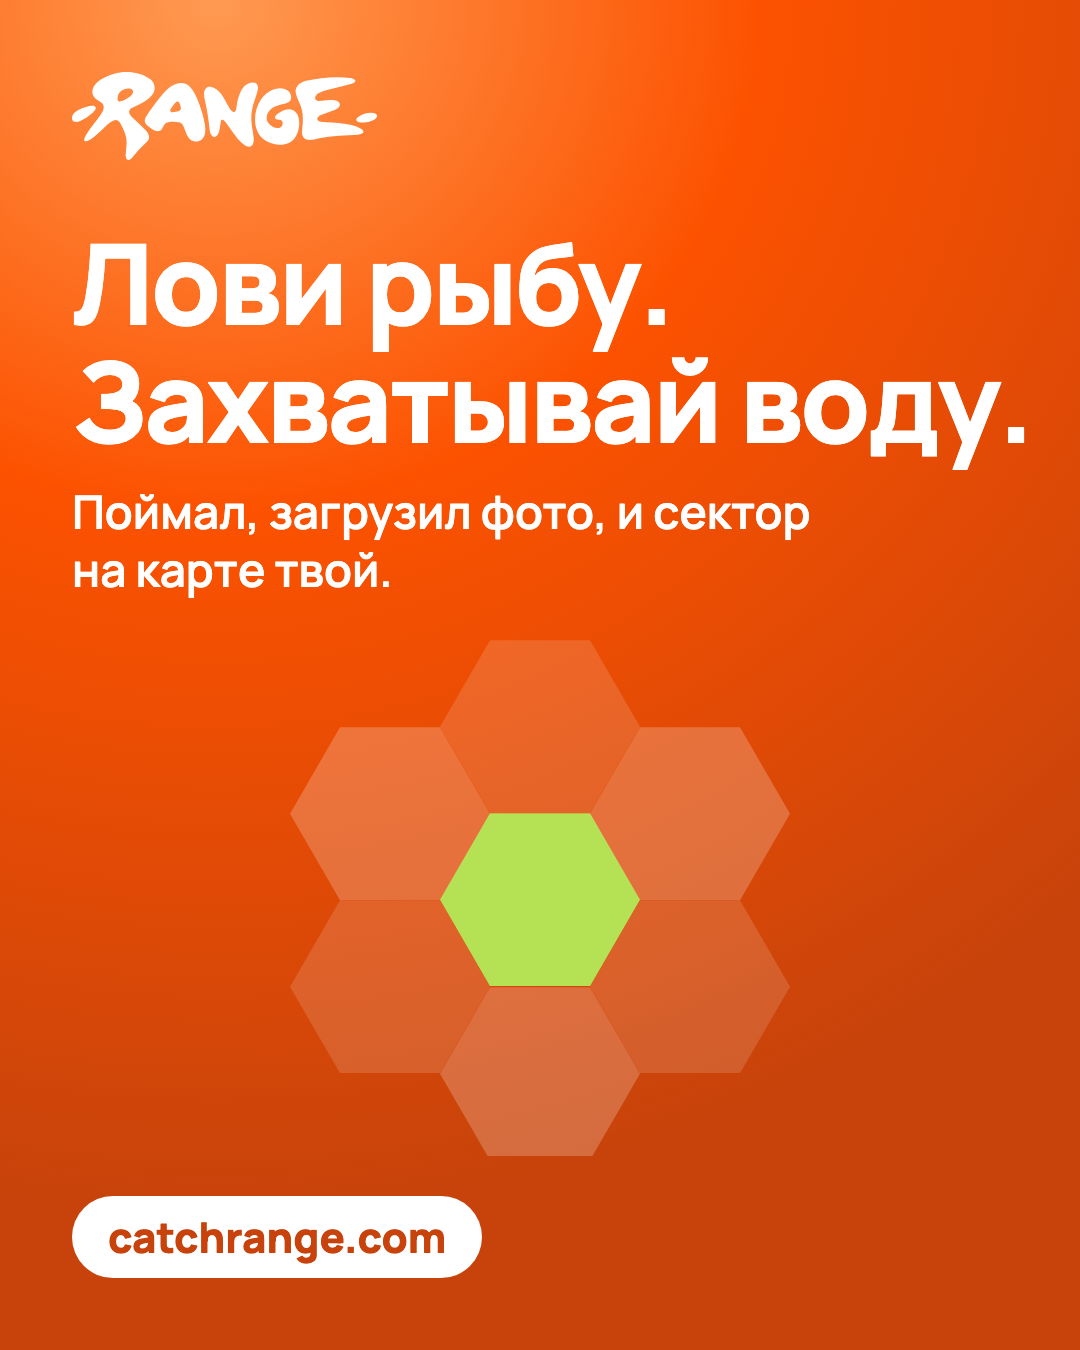
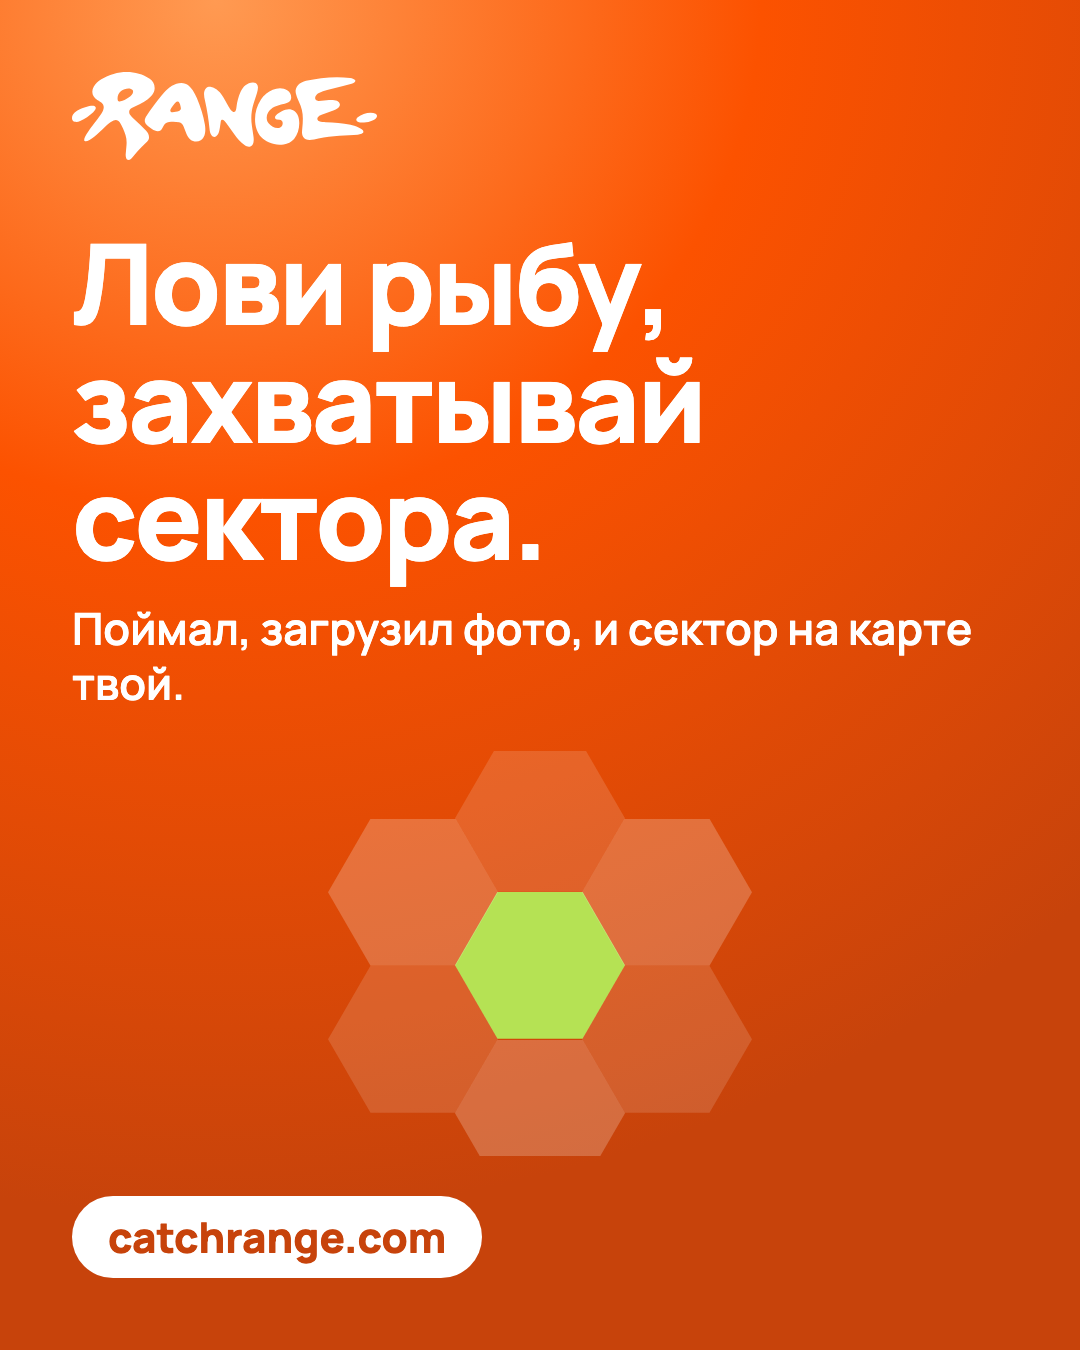
Social bot: live numbers in post texts, Monday report (/report), slogan «захватывай сектора», story5 image

Changed region(s): [[0.0611, 0.2489, 0.9472, 0.8711], [0.5806, 0.2178, 0.6111, 0.2489], [0.4278, 0.84, 0.4583, 0.8711]]

diff --git a/web/lib/livePlaceholders.ts b/web/lib/livePlaceholders.ts
@@ -1,0 +1,57 @@
+import type { SocialPost } from '@/lib/socialBot'
+import type { createAdminClient } from '@/lib/supabase/admin'
+
+// Live numbers in post texts. A text may hold placeholders in curly braces; the tick fills them from the database
+// an hour before the post goes out (when the preview is made), so the text the owner approves is the text that is published.
+//   {catches_total} all catches · {catches_7d} catches in the last 7 days · {players} all players
+//   {new_players_7d} new players in the last 7 days · {clans} clans · {to_2000} how many catches are left to 2000
+// Plan: docs/10 Продукт/Продвижение в соцсетях.md
+
+type Admin = ReturnType<typeof createAdminClient>
+
+const NAMES = ['catches_total', 'catches_7d', 'players', 'new_players_7d', 'clans', 'to_2000'] as const
+const RE = new RegExp(`\\{(${NAMES.join('|')})\\}`, 'g')
+
+export function hasLivePlaceholders(text: string): boolean {
+  RE.lastIndex = 0
+  return RE.test(text)
+}
+
+// 1821 -> «1 821» (a thin non-breaking space keeps the number in one piece)
+const fmt = (n: number) => n.toLocaleString('ru-RU').replace(/\s/g, ' ')
+
+export async function liveValues(admin: Admin): Promise<Record<string, string>> {
+  const week = new Date(Date.now() - 7 * 86_400_000).toISOString()
+  const count = async (q: PromiseLike<{ count: number | null }>) => (await q).count ?? 0
+  const [catchesTotal, catches7d, players, newPlayers7d, clans] = await Promise.all([
+    count(admin.from('catches').select('id', { count: 'exact', head: true })),
+    count(admin.from('catches').select('id', { count: 'exact', head: true }).gte('caught_at', week)),
+    count(admin.from('profiles').select('id', { count: 'exact', head: true })),
+    count(admin.from('profiles').select('id', { count: 'exact', head: true }).gte('created_at', week)),
+    // the clans table is not in the generated types (lib/types.ts), so it is read through a plain client
+    count((admin as unknown as { from: (t: string) => { select: (c: string, o: object) => PromiseLike<{ count: number | null }> } }).from('clans').select('id', { count: 'exact', head: true })),
+  ])
+  return {
+    catches_total: fmt(catchesTotal),
+    catches_7d: fmt(catches7d),
+    players: fmt(players),
+    new_players_7d: fmt(newPlayers7d),
+    clans: fmt(clans),
+    to_2000: fmt(Math.max(0, 2000 - catchesTotal)),
+  }
+}
+
+function fill(text: string, values: Record<string, string>): string {
+  return text.replace(RE, (_, name: string) => values[name] ?? '')
+}
+
+// Fills the placeholders of a post (body and every text), saves the result and returns the filled post.
+export async function fillLive(admin: Admin, p: SocialPost): Promise<SocialPost> {
+  const texts = [p.body, ...Object.entries(p.captions).filter(([k]) => !k.startsWith('_')).map(([, v]) => v)]
+  if (!texts.some((t) => typeof t === 'string' && hasLivePlaceholders(t))) return p
+  const values = await liveValues(admin)
+  const captions = Object.fromEntries(Object.entries(p.captions).map(([k, v]) => [k, k.startsWith('_') || typeof v !== 'string' ? v : fill(v, values)]))
+  const next = { ...p, body: fill(p.body, values), captions }
+  await admin.from('social_posts').update({ body: next.body, captions, updated_at: new Date().toISOString() }).eq('id', p.id)
+  return next
+}

diff --git a/web/lib/weeklyReport.ts b/web/lib/weeklyReport.ts
@@ -1,0 +1,60 @@
+import { PLATFORM_LABELS_FALLBACK } from '@/lib/weeklyReportLabels'
+import { tg } from '@/lib/socialBot'
+import type { createAdminClient } from '@/lib/supabase/admin'
+
+// Monday report for the owner: how many posts went out and how many did not, per channel, plus a few numbers of the game.
+// The week is Monday 00:00 to Sunday 24:00 Batumi time (UTC+4). Posts planned before 28.11.2026 are not counted (test period).
+// Plan: docs/10 Продукт/Продвижение в соцсетях.md
+
+type Admin = ReturnType<typeof createAdminClient>
+const TZ_MS = 4 * 3_600_000
+const START = Date.parse('2026-11-28T00:00:00+04:00')
+
+// Start (UTC ms) of the Batumi week that ended before `now`.
+export function previousWeek(now = Date.now()): { from: number; to: number } {
+  const local = new Date(now + TZ_MS)
+  const dow = (local.getUTCDay() + 6) % 7 // Monday = 0
+  const thisMonday = Date.UTC(local.getUTCFullYear(), local.getUTCMonth(), local.getUTCDate() - dow) - TZ_MS
+  return { from: thisMonday - 7 * 86_400_000, to: thisMonday }
+}
+
+const day = (ms: number) => new Date(ms + TZ_MS).toISOString().slice(8, 10) + '.' + new Date(ms + TZ_MS).toISOString().slice(5, 7)
+
+export async function weeklyReportText(admin: Admin, now = Date.now()): Promise<string> {
+  const { from, to } = previousWeek(now)
+  const lo = Math.max(from, START)
+  const { data } = await admin
+    .from('social_posts')
+    .select('platforms,status')
+    .gte('scheduled_at', new Date(lo).toISOString())
+    .lt('scheduled_at', new Date(to).toISOString())
+  const per: Record<string, { ok: number; no: number; wait: number }> = {}
+  for (const r of data ?? []) {
+    for (const pl of r.platforms as string[]) {
+      const c = (per[pl] ??= { ok: 0, no: 0, wait: 0 })
+      if (r.status === 'published' || r.status === 'reminded') c.ok++
+      else if (['cancelled', 'expired', 'failed'].includes(r.status)) c.no++
+      else c.wait++
+    }
+  }
+  const iso = (ms: number) => new Date(ms).toISOString()
+  const count = async (q: PromiseLike<{ count: number | null }>) => (await q).count ?? 0
+  const [catches, players] = await Promise.all([
+    count(admin.from('catches').select('id', { count: 'exact', head: true }).gte('caught_at', iso(from)).lt('caught_at', iso(to))),
+    count(admin.from('profiles').select('id', { count: 'exact', head: true }).gte('created_at', iso(from)).lt('created_at', iso(to))),
+  ])
+  const lines = Object.entries(per).map(([pl, c]) => `${PLATFORM_LABELS_FALLBACK[pl] ?? pl}: вышло ${c.ok}, не вышло ${c.no}${c.wait ? `, ждёт ${c.wait}` : ''}`)
+  const sum = Object.values(per).reduce((a, c) => ({ ok: a.ok + c.ok, no: a.no + c.no }), { ok: 0, no: 0 })
+  return [
+    `📊 Неделя ${day(from)} – ${day(to - 86_400_000)}`,
+    '',
+    lines.length ? lines.join('\n') : 'Постов в эту неделю не было.',
+    lines.length ? `\nВсего: вышло ${sum.ok}, не вышло ${sum.no}` : '',
+    '',
+    `В игре: новых игроков ${players}, уловов ${catches}`,
+  ].join('\n').trim()
+}
+
+export async function sendWeeklyReport(admin: Admin, chatId: number, now = Date.now()) {
+  await tg('sendMessage', { chat_id: chatId, text: await weeklyReportText(admin, now) })
+}

diff --git a/web/app/api/social-bot/tick/route.ts b/web/app/api/social-bot/tick/route.ts
@@ -20,6 +20,8 @@ import {
 import { facebookConfigured, publishToFacebook } from '@/lib/facebookPublish'
 import { instagramConfigured, publishToInstagram } from '@/lib/instagramPublish'
 import { sendReadyJobs } from '@/lib/videoJobs'
+import { sendWeeklyReport } from '@/lib/weeklyReport'
+import { fillLive } from '@/lib/livePlaceholders'
 import { publishToTelegram, telegramChannelConfigured } from '@/lib/telegramChannel'
 import { publishToYouTube, youtubeConfigured } from '@/lib/youtubePublish'
 import { publishToTikTok, tiktokConfigured } from '@/lib/tiktokPublish'
@@ -189,8 +191,9 @@ async function handleGET(req: Request) {
     .order('scheduled_at')
     .limit(BATCH)
   for (const row of soon ?? []) {
-    const p = readPost(row)
+    let p = readPost(row)
     try {
+      p = await fillLive(admin, p) // {catches_total}, {to_2000} … become the real numbers now
       const mediaNote = await sendMedia(chatId, p)
       const text = previewHtml(p) + (mediaNote ? `\n\n${escapeHtml(mediaNote)}` : '')
       const msg = await tg<{ message_id: number }>('sendMessage', {
@@ -210,6 +213,15 @@ async function handleGET(req: Request) {
       const msg = err instanceof Error ? err.message : String(err)
       report.errors.push(`preview #${p.id}: ${msg}`)
       await admin.from('social_posts').update({ error: msg.slice(0, 500) }).eq('id', p.id)
+    }
+  }
+
+  // Monday 10:00 Batumi (06:00 UTC): the report for the past week, once (the tick runs at least every hour).
+  if (now.getUTCDay() === 1 && now.getUTCHours() === 6 && now.getUTCMinutes() < 30) {
+    const { data: sent } = await admin.from('social_tokens').select('name').eq('name', `report-${now.toISOString().slice(0, 10)}`).maybeSingle()
+    if (!sent) {
+      await sendWeeklyReport(admin, chatId).catch((e) => report.errors.push(`report: ${String(e).slice(0, 200)}`))
+      await admin.from('social_tokens').insert({ name: `report-${now.toISOString().slice(0, 10)}`, token: 'sent', expires_at: new Date(now.getTime() + 86_400_000).toISOString() })
     }
   }
 

diff --git a/web/app/api/social-bot/webhook/route.ts b/web/app/api/social-bot/webhook/route.ts
@@ -1,6 +1,7 @@
 import { NextResponse, after } from 'next/server'
 import { createAdminClient } from '@/lib/supabase/admin'
 import { withErrorReport } from '@/lib/serverErrors'
+import { sendWeeklyReport } from '@/lib/weeklyReport'
 import { connectLink, tiktokConfigured } from '@/lib/tiktokPublish'
 import { acceptVideo, incomingVideo, onJobButton, saveJobFeedback, videoFeedbackFor } from '@/lib/videoJobs'
 import { escapeHtml, isTelegramUpdate, ownerChatId, previewHtml, readPost, tg, whenText } from '@/lib/socialBot'
@@ -125,6 +126,10 @@ async function onOwnerText(admin: ReturnType<typeof createAdminClient>, chatId: 
       chat_id: chatId,
       text: 'Привет! Сюда за час до выхода будут приходить посты для соцсетей RANGE.\n\n✅ Принять: пост выйдет.\n✏ Изменить: напиши, что поменять, пришлю новый вариант.\n❌ Отменить: пост не выйдет.\n\nБез «Принять» ничего не публикуется.\n\n🎬 Ролики: пришли сюда видео (как «видео», до 20 МБ), в подписи можно написать рыбу, вес и место. Я смонтирую без звука, с оболочкой RANGE, и верну с описанием и кнопками «Всё ок / Изменить». Выкладываешь сам.',
     })
+    return
+  }
+  if (text.startsWith('/report')) {
+    await sendWeeklyReport(admin, chatId)
     return
   }
   if (text.startsWith('/tiktok')) {

diff --git a/web/lib/weeklyReportLabels.ts b/web/lib/weeklyReportLabels.ts
@@ -1,0 +1,10 @@
+export const PLATFORM_LABELS_FALLBACK: Record<string, string> = {
+  threads: 'Threads',
+  instagram: 'Instagram (лента)',
+  instagram_story: 'Instagram (истории)',
+  instagram_reel: 'Instagram (рилс)',
+  facebook: 'Facebook',
+  telegram: 'Telegram-канал',
+  tiktok: 'TikTok',
+  youtube: 'YouTube',
+}

diff --git a/docs/10 Продукт/Продвижение в соцсетях.md b/docs/10 Продукт/Продвижение в соцсетях.md
@@ -145,7 +145,7 @@ from app_events where name = 'visit_source' group by 1 order by 2 desc;
 ### Instagram (лента: нужна картинка 4:5 до 1,91:1; не скриншот телефона)
 | Когда | Рубрика | Подпись и картинка |
 |---|---|---|
-| вс 29.11, 19:00 | Что такое RANGE | «Лови рыбу, захватывай воду. Поймал, загрузил фото, и сектор на карте твой. catchrange.com». Картинка: карта с шестиугольниками в формате 4:5 (шаблон). |
+| вс 29.11, 19:00 | Что такое RANGE | «Лови рыбу, захватывай сектора. Поймал, загрузил фото, и сектор на карте твой. catchrange.com». Картинка: карта с шестиугольниками в формате 4:5 (шаблон). |
 | ср 02.12, 19:00 | Рыба недели | «Горбыль, 2 кг: самый тяжёлый улов недели в RANGE. Что поймали вы? catchrange.com». Картинка: рисунок рыбы из `fish_illustrations` (горбыль, если он есть) на фирменном фоне. |
 | сб 05.12 (запас) | Цифры | Карточка «Уже N уловов, N игроков, 46 видов» (шаблон), подпись с ссылкой. |
 
@@ -162,3 +162,10 @@ from app_events where name = 'visit_source' group by 1 order by 2 desc;
 ### Дальше
 Посты заносятся в `social_posts` пачкой на неделю по этому плану (после команды владельца), каждый присылается на согласование за час до выхода. После недели смотрим метки источника (`signup_sources`) и решаем, что оставить.
 
+
+
+## Живые цифры в текстах и отчёт по понедельникам (27.11.2026)
+
+- В тексте поста можно писать `{catches_total}`, `{catches_7d}`, `{players}`, `{new_players_7d}`, `{clans}`, `{to_2000}`. За час до выхода (когда готовится превью) бот подставляет числа из базы и сохраняет текст, поэтому публикуется то, что владелец принял. Код: `web/lib/livePlaceholders.ts`.
+- Каждый понедельник около 10:00 по Батуми бот присылает отчёт за прошлую неделю: по каждому каналу сколько постов вышло / не вышло / ждёт, плюс новые игроки и уловы. Считаются посты с 28.11.2026. Команда `/report` присылает отчёт сразу. Код: `web/lib/weeklyReport.ts`.
+- Монтаж роликов: расписание `reels-queue` в приложении Claude на Mac, каждые 10 минут с 8:00 до 23:50, работает пока приложение открыто.
